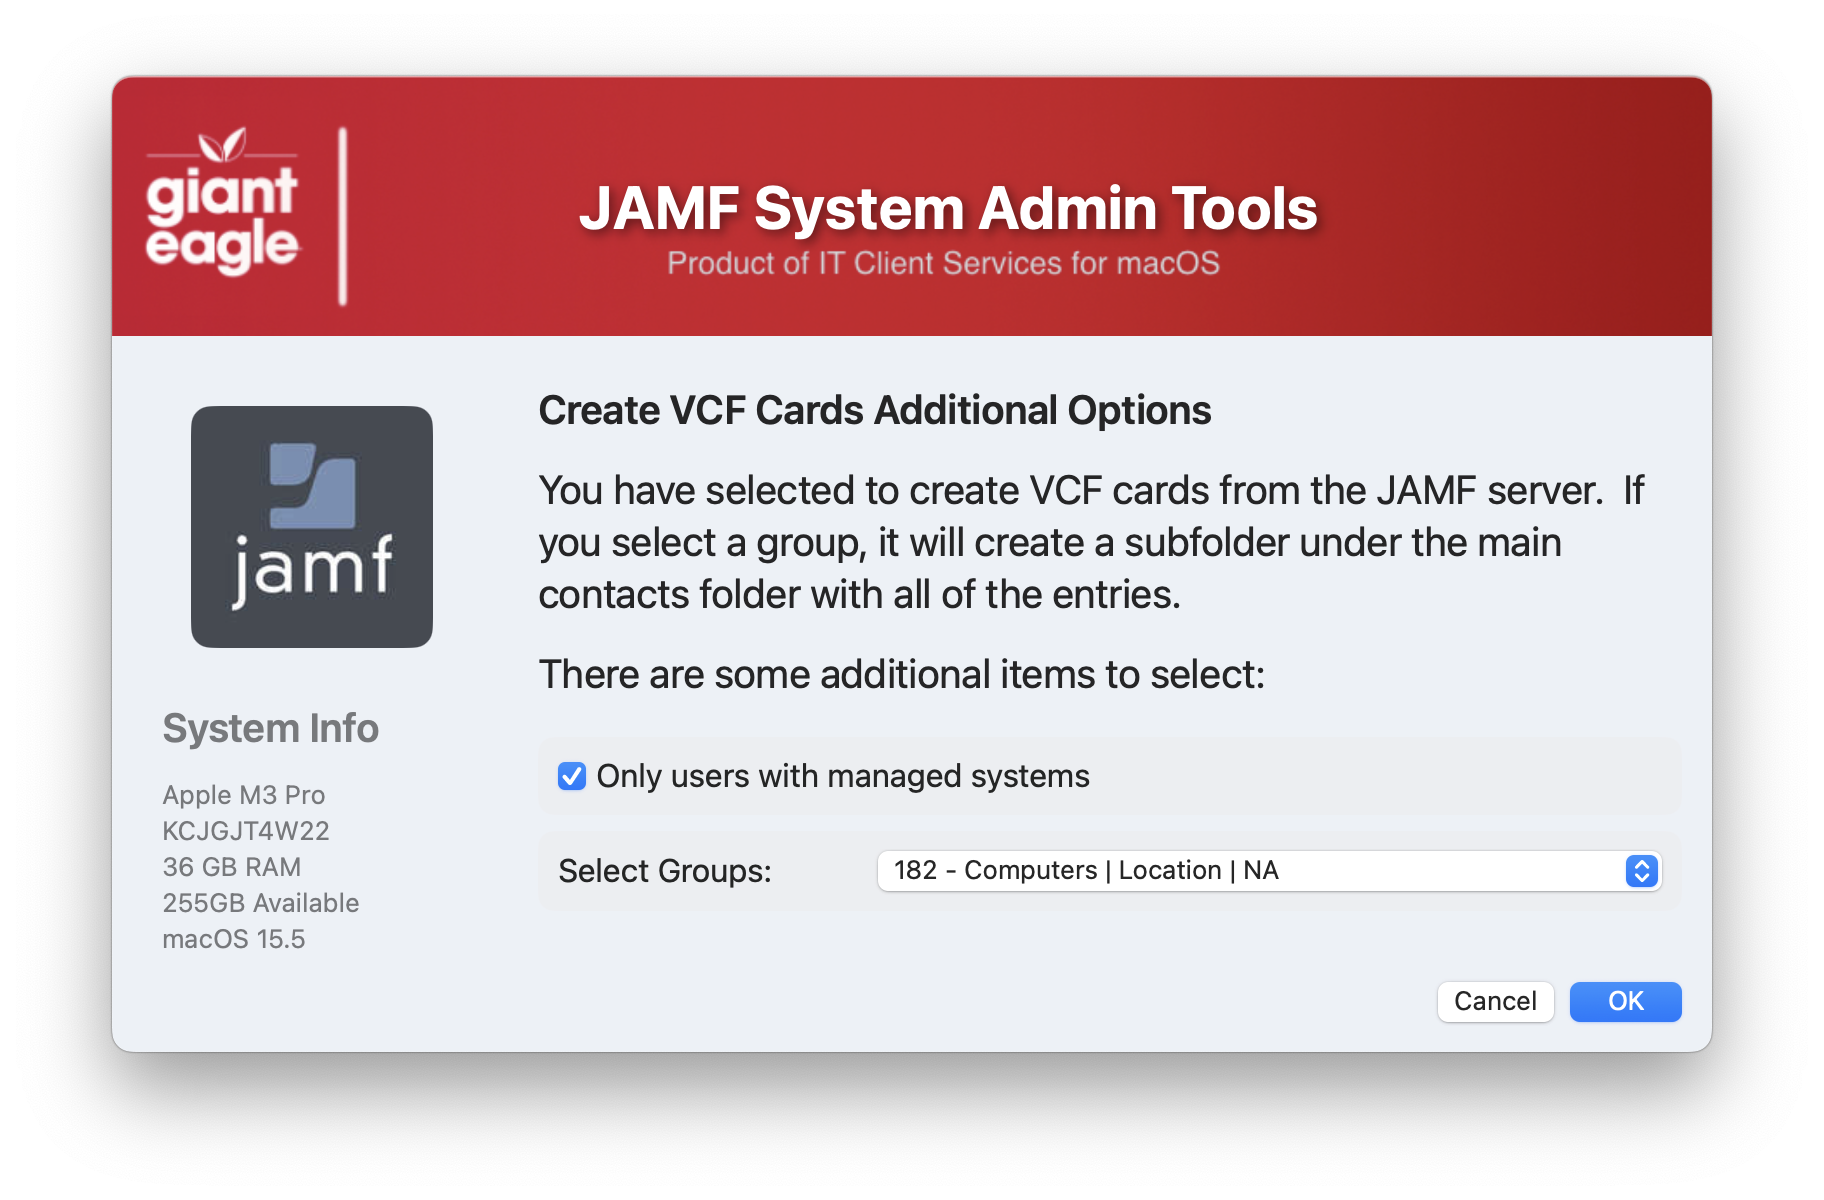
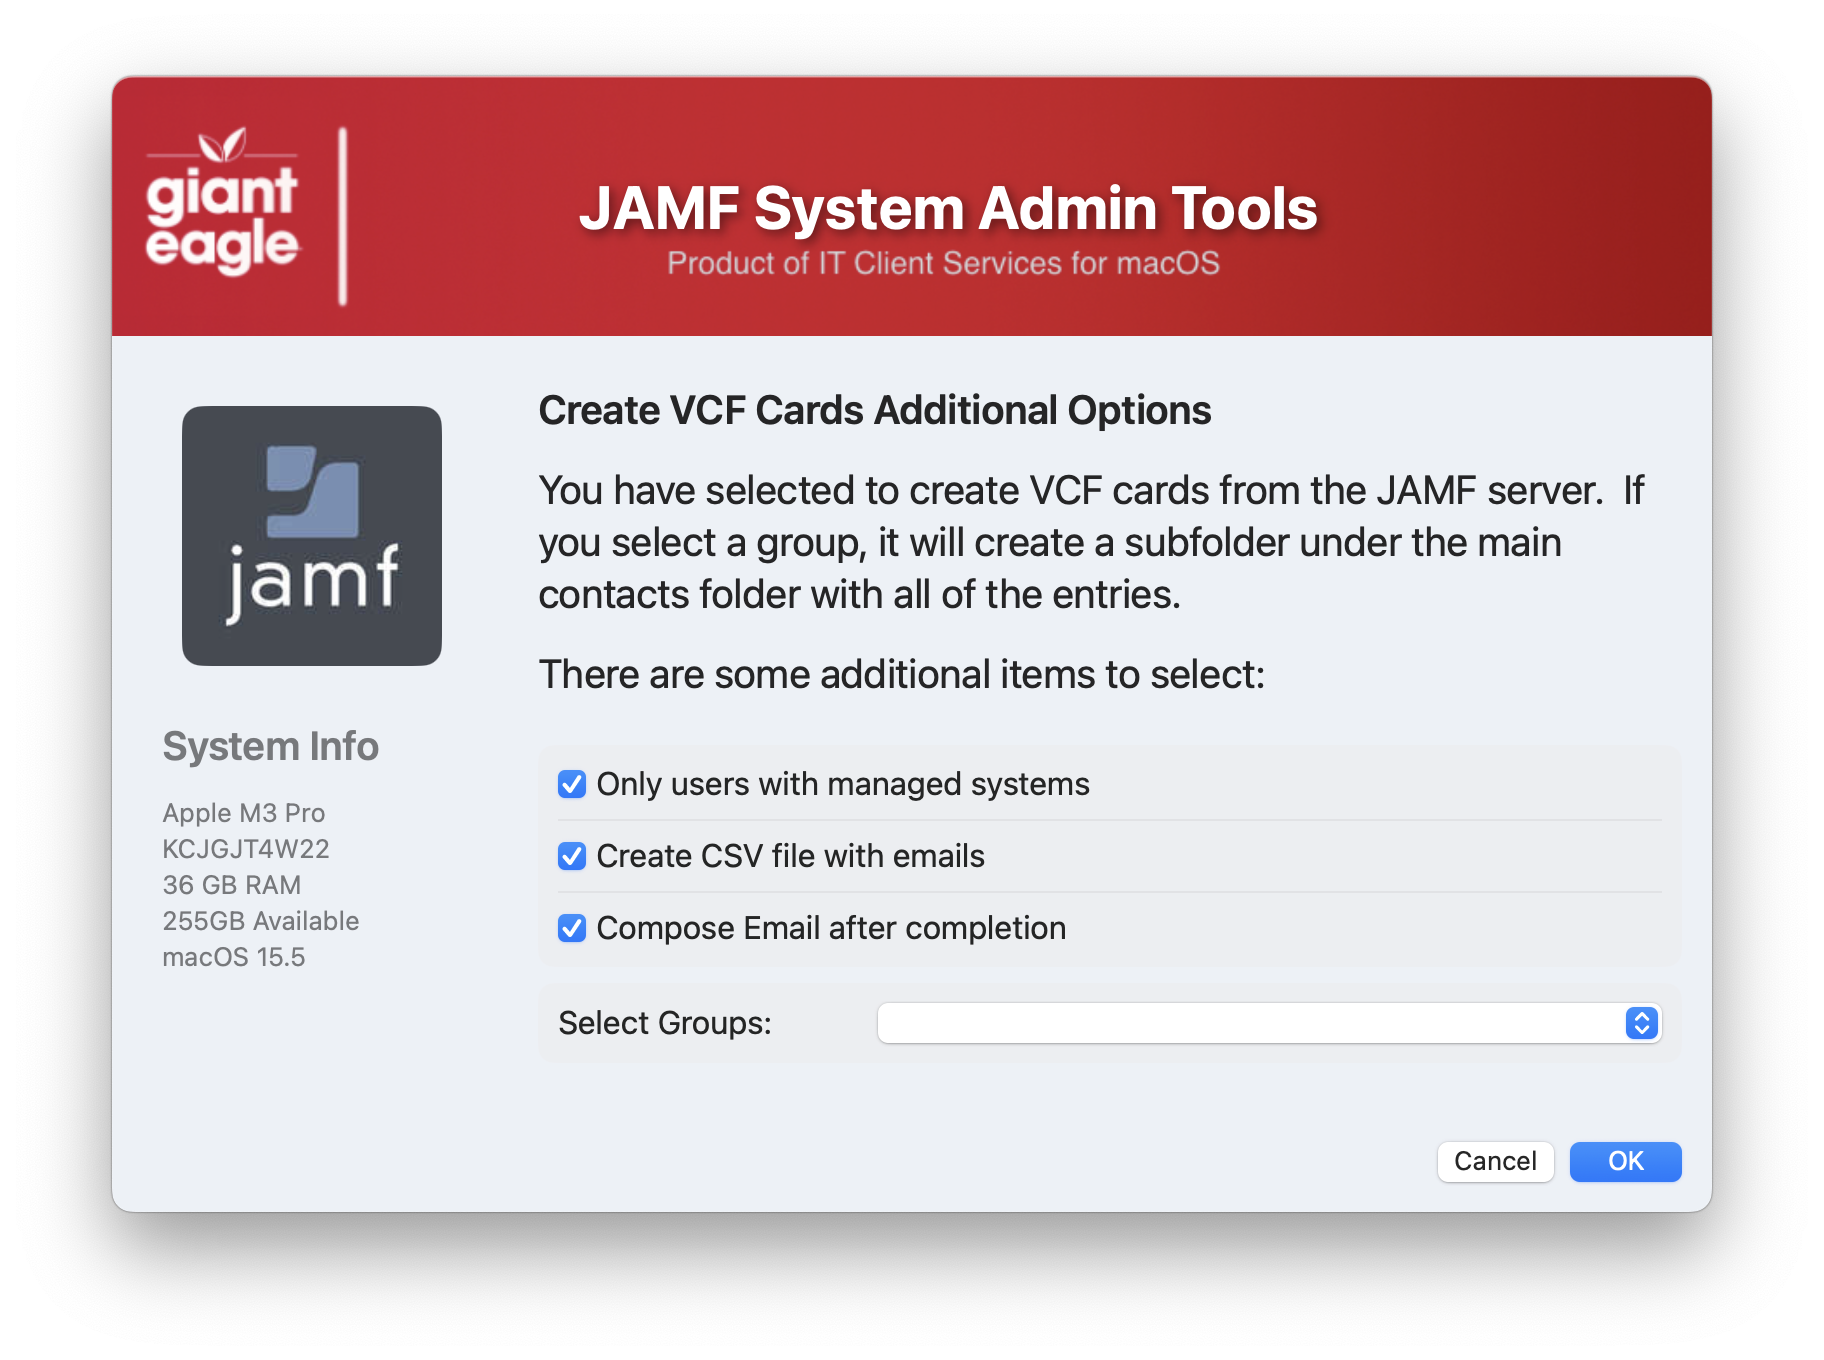
JAMF System Utilities using SwiftDialog

diff --git a/JAMFSystemUtilities/README.md b/JAMFSystemUtilities/README.md
@@ -18,6 +18,7 @@ The following items are available to be backed up:
    - Smart Computer Groups will export the paramaters and criteria to a .txt file
    - Static Computer Groups will export the members to a .txt file
 8.  Export VCF cards of the members of a Smart / Static Computer Group.
+9.  Compose an email to the members of a Smart / Static Computer Group.
 
 
 This script is fully multitasked, so will execute each task pretty quickly.  It will create the folder structure for you and then download the items to the appropriate folders. 
